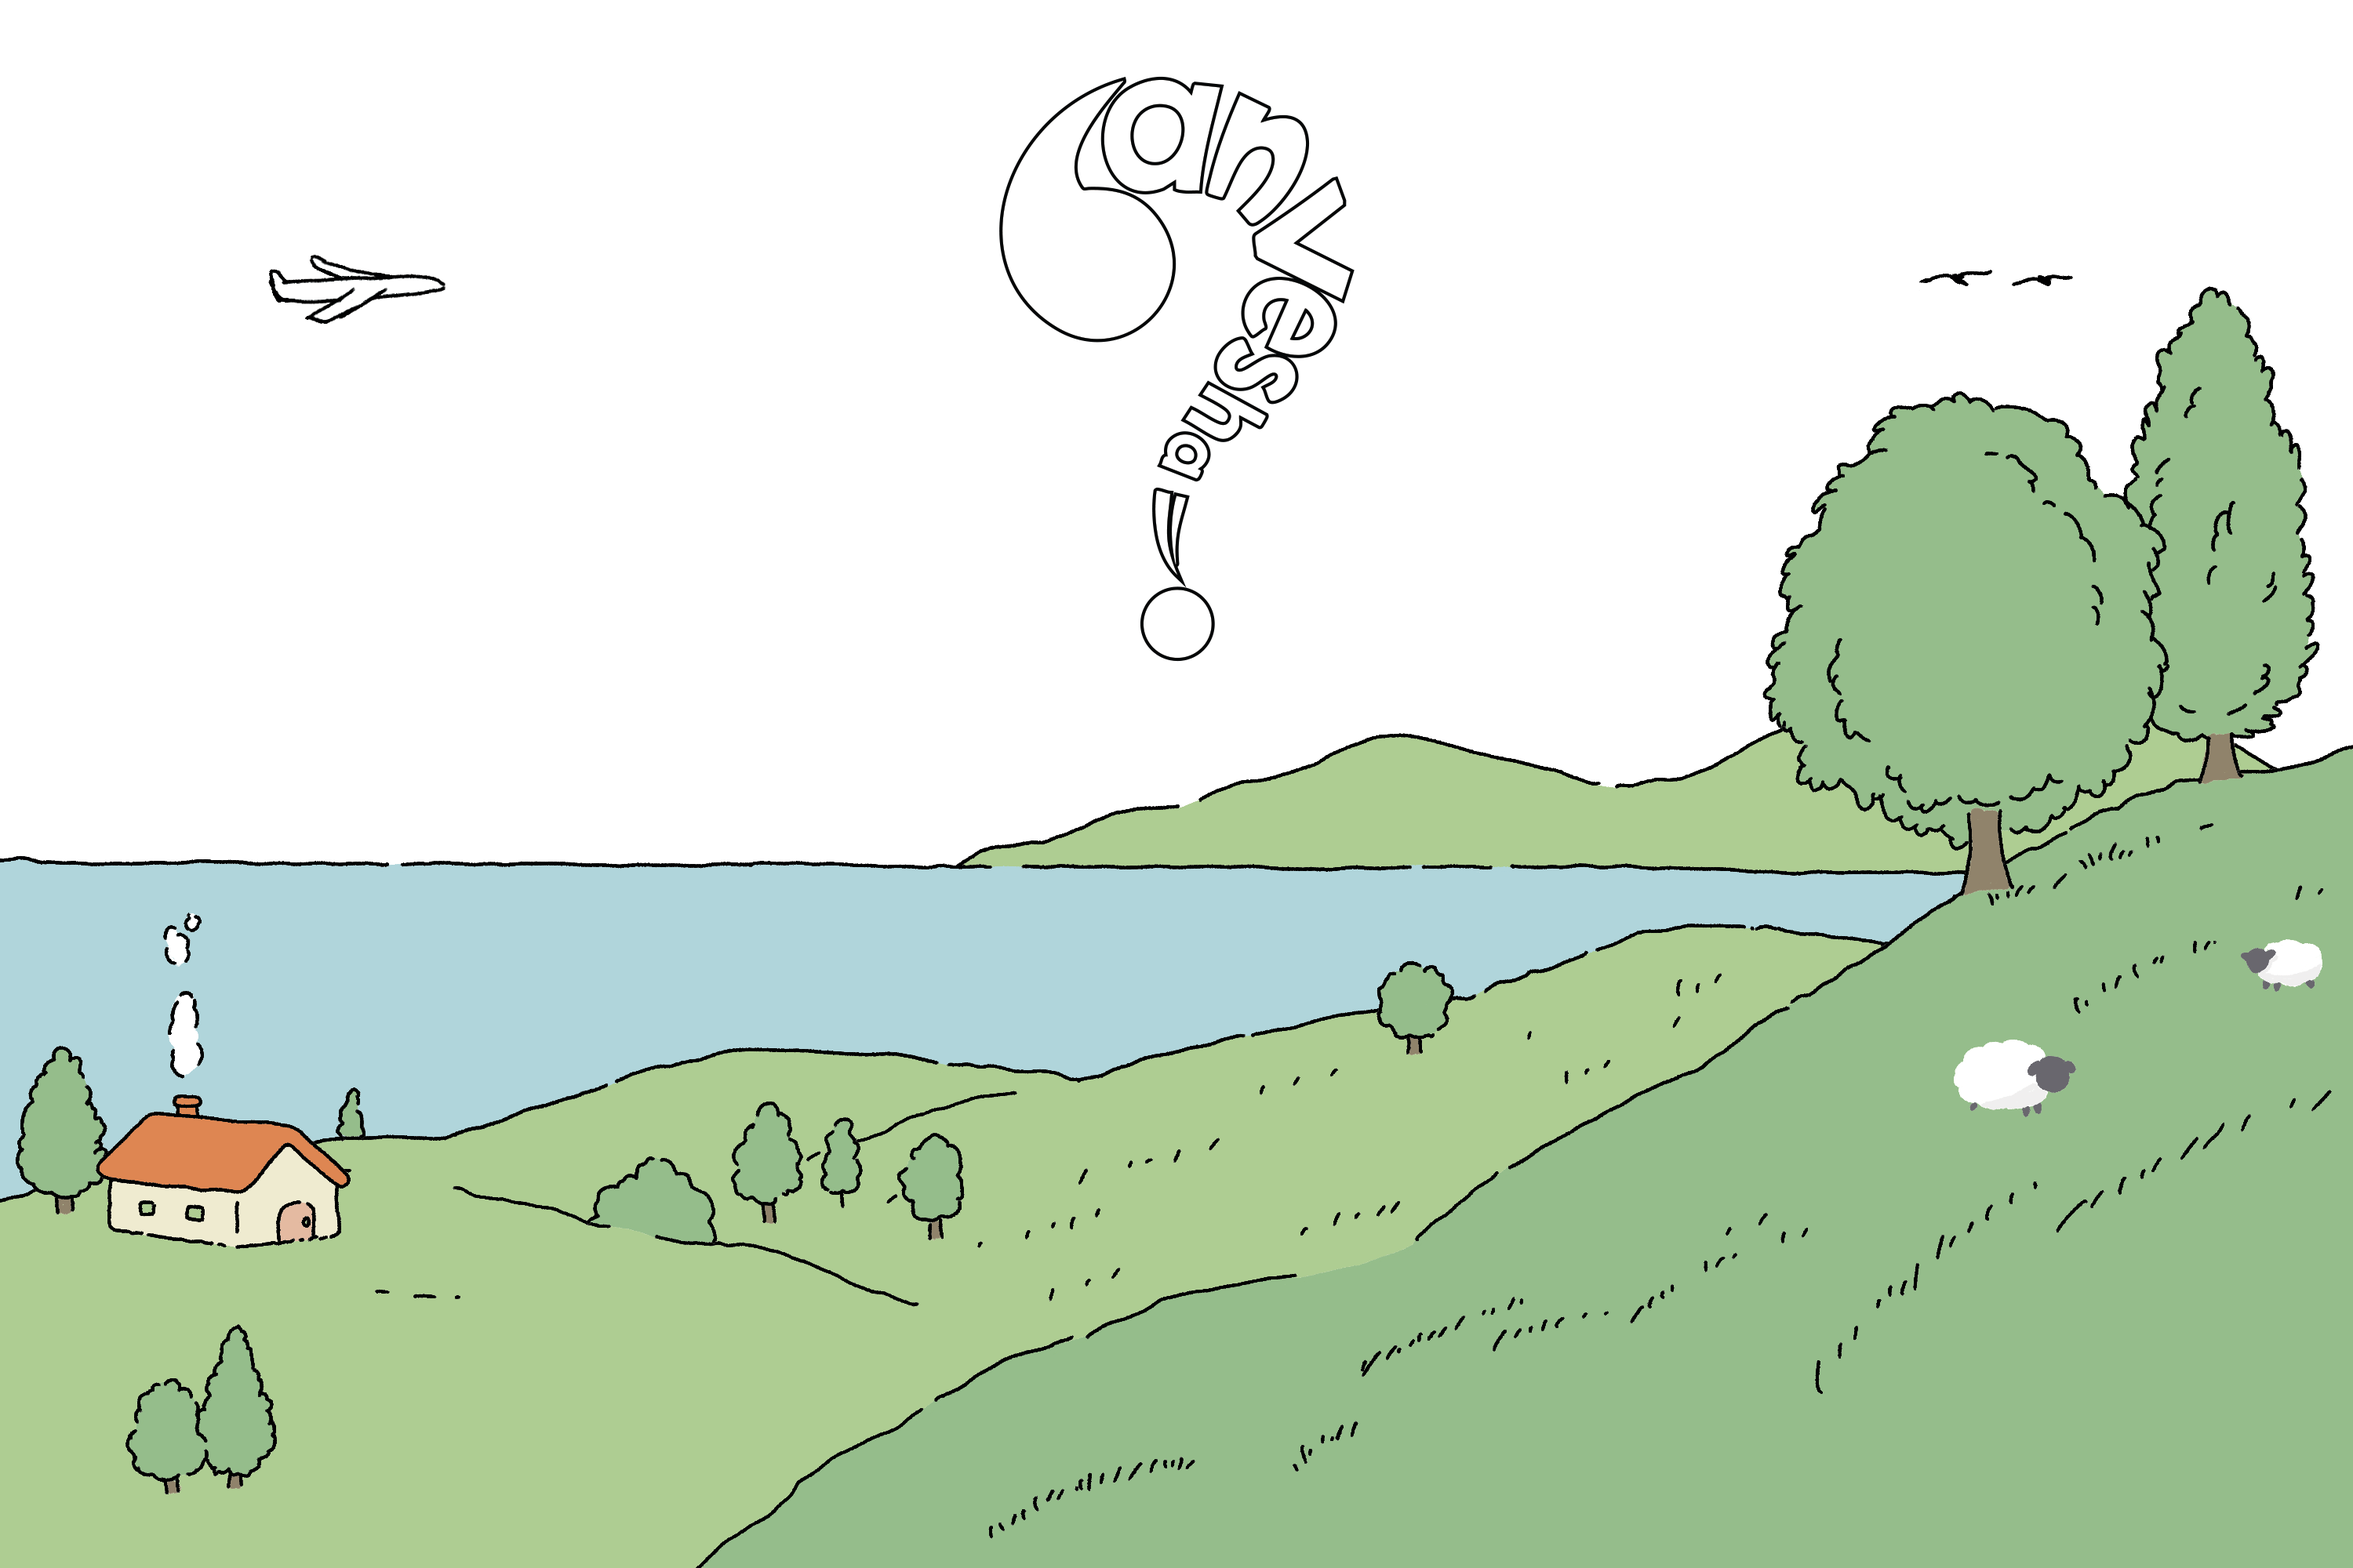
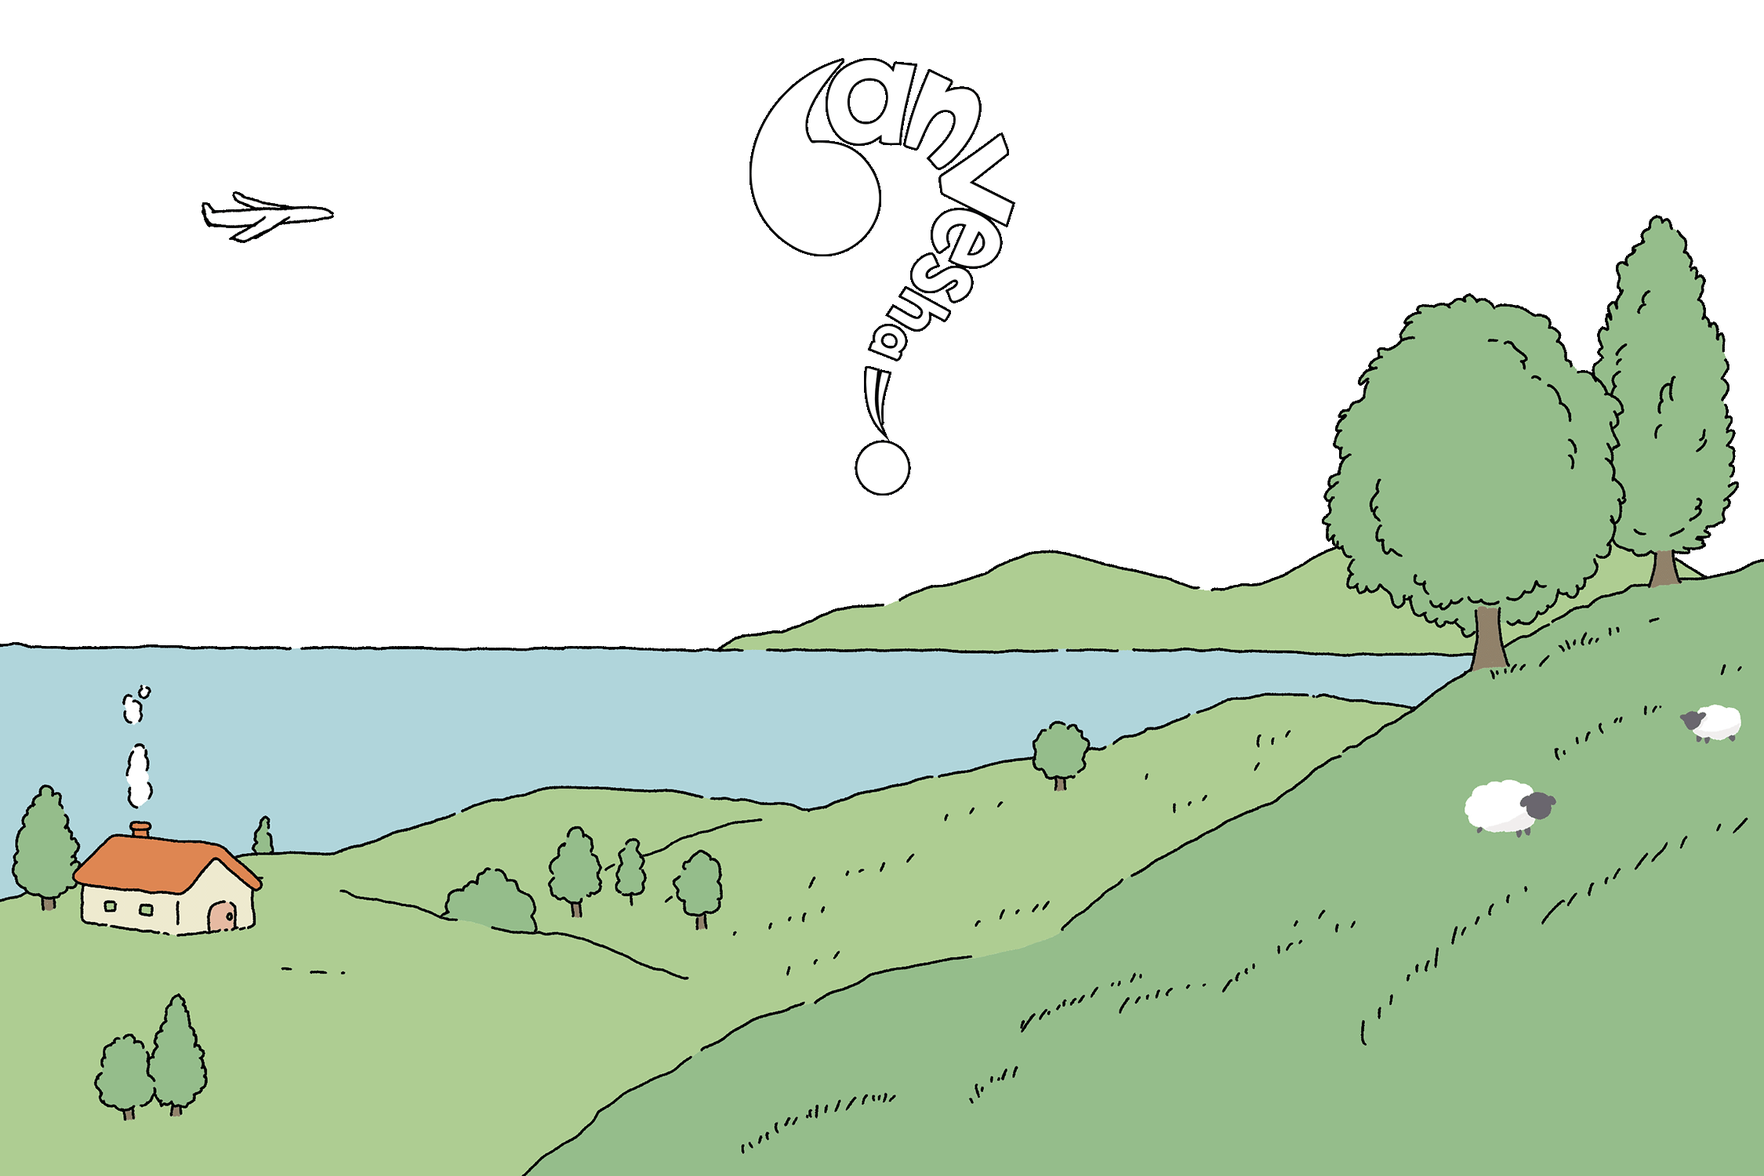
compressed files update

diff --git a/template.html b/template.html
@@ -27,7 +27,7 @@
           Cochin,
           Georgia,
           Times,
-          &quot;Times New Roman&quot;,
+          'Times New Roman',
           serif,
           sans-serif;
         letter-spacing: -0.03rem;
@@ -52,10 +52,11 @@
               "
             >
               <tbody>
+                <!-- Header Image -->
                 <tr>
                   <td style="padding-bottom: 20px; text-align: center">
                     <img
-                      src="https://raw.githubusercontent.com/PragunNepal/Srijana/refs/heads/main/assets/anvesha_banner_3.png"
+                      src="https://raw.githubusercontent.com/PragunNepal/Srijana/refs/heads/main/assets/anvesha_header.png"
                       alt="Anvesha header"
                       style="
                         display: block;
@@ -66,6 +67,8 @@
                     />
                   </td>
                 </tr>
+
+                <!-- Greetings -->
                 <tr>
                   <td style="padding: 20px 20px 10px; text-align: center">
                     <h2
@@ -80,6 +83,8 @@
                     </h2>
                   </td>
                 </tr>
+
+                <!-- Title -->
                 <tr>
                   <td style="padding: 10px; text-align: center">
                     <h1 style="margin: 0 50px; font-size: 2rem; color: #5e7b9a">
@@ -87,6 +92,8 @@
                     </h1>
                   </td>
                 </tr>
+
+                <!-- Content -->
                 <tr>
                   <td
                     style="
@@ -100,131 +107,131 @@
                     ${Content}
                   </td>
                 </tr>
+
+                <!-- Footer Image Row -->
                 <tr>
-                  <td
-                    style="
-                      text-align: center;
-                      position: relative;
-                      line-height: 0;
-                    "
-                  >
+                  <td style="line-height: 0; padding: 0; margin: 0">
                     <img
                       src="https://raw.githubusercontent.com/PragunNepal/Srijana/refs/heads/main/assets/anvesha_footer.png"
                       alt="Anvesha footer"
-                      width="600"
                       style="
                         display: block;
                         width: 100%;
-                        max-width: 100%;
                         height: auto;
                         border: 0;
+                        margin: 0;
+                        padding: 0;
                       "
                     />
+                  </td>
+                </tr>
+
+                <!-- Pill Row (Protected from Dark Mode) -->
+                <tr>
+                  <td
+                    align="center"
+                    style="
+                      padding: 20px 0;
+                      text-align: center;
+                      background-color: #95bd8b;
+                      background-image: linear-gradient(#95bd8b, #95bd8b);
+                      color-scheme: light only;
+                    "
+                  >
+                    <!-- Floating Pill Container -->
                     <div
                       style="
-                        position: absolute;
-                        bottom: 20px;
-                        left: 0;
-                        width: 100%;
-                        text-align: center;
-                        z-index: 10;
-                        line-height: normal;
+                        display: inline-block;
+                        background-color: #ffffff;
+                        background-image: linear-gradient(#ffffff, #ffffff);
+                        padding: 10px 10px;
+                        border-radius: 10px;
                       "
                     >
-                      <!-- Rounded Container Card -->
-                      <div
+                      <a
+                        href="https://www.instagram.com/anveshaiiser"
+                        target="_blank"
                         style="
+                          text-decoration: none;
+                          margin: 0 6px;
                           display: inline-block;
-                          background-color: rgba(255, 255, 255, 0.85);
-                          padding: 10px 10px;
-                          border-radius: 10px;
                         "
                       >
-                        <a
-                          href="https://www.instagram.com/anveshaiiser"
-                          style="
-                            text-decoration: none;
-                            margin: 0 6px;
-                            display: inline-block;
-                          "
-                          target="_blank"
-                        >
-                          <img
-                            src="https://raw.githubusercontent.com/PragunNepal/Srijana/refs/heads/main/icons/instagram.png"
-                            alt="Instagram"
-                            width="24"
-                            height="24"
-                            style="vertical-align: middle; border: 0"
-                          />
-                        </a>
-                        <a
-                          href="mailto:stc@iisertvm.ac.in"
-                          style="
-                            text-decoration: none;
-                            margin: 0 6px;
-                            display: inline-block;
-                          "
-                        >
-                          <img
-                            src="https://raw.githubusercontent.com/PragunNepal/Srijana/refs/heads/main/icons/gmail.png"
-                            alt="Gmail"
-                            width="24"
-                            height="24"
-                            style="vertical-align: middle; border: 0"
-                          />
-                        </a>
-                        <a
-                          href="https://www.facebook.com/anvesha.iisertvm"
-                          style="
-                            text-decoration: none;
-                            margin: 0 6px;
-                            display: inline-block;
-                          "
-                          target="_blank"
-                        >
-                          <img
-                            src="https://raw.githubusercontent.com/PragunNepal/Srijana/refs/heads/main/icons/facebook.png"
-                            alt="Facebook"
-                            width="24"
-                            height="24"
-                            style="vertical-align: middle; border: 0"
-                          />
-                        </a>
-                        <a
-                          href="https://x.com/Anvesha_IISER"
-                          style="
-                            text-decoration: none;
-                            margin: 0 6px;
-                            display: inline-block;
-                          "
-                          target="_blank"
-                        >
-                          <img
-                            src="https://raw.githubusercontent.com/PragunNepal/Srijana/refs/heads/main/icons/twitter.png"
-                            alt="Twitter"
-                            width="24"
-                            height="24"
-                            style="vertical-align: middle; border: 0"
-                          />
-                        </a>
-                        <a
-                          href="https://youtube.com/@stciisertvm"
-                          style="
-                            text-decoration: none;
-                            margin: 0 6px;
-                            display: inline-block;
-                          "
-                          target="_blank"
-                        >
-                          <img
-                            src="https://raw.githubusercontent.com/PragunNepal/Srijana/refs/heads/main/icons/youtube.png"
-                            alt="YouTube"
-                            width="24"
-                            height="24"
-                            style="vertical-align: middle; border: 0"
-                          />
-                        </a>
-                      </div>
+                        <img
+                          src="https://raw.githubusercontent.com/PragunNepal/Srijana/refs/heads/main/icons/instagram.png"
+                          alt="Instagram"
+                          width="24"
+                          height="24"
+                          style="vertical-align: middle; border: 0"
+                        />
+                      </a>
+                      <a
+                        href="mailto:stc@iisertvm.ac.in"
+                        style="
+                          text-decoration: none;
+                          margin: 0 6px;
+                          display: inline-block;
+                        "
+                      >
+                        <img
+                          src="https://raw.githubusercontent.com/PragunNepal/Srijana/refs/heads/main/icons/gmail.png"
+                          alt="Gmail"
+                          width="24"
+                          height="24"
+                          style="vertical-align: middle; border: 0"
+                        />
+                      </a>
+                      <a
+                        href="https://www.facebook.com/anvesha.iisertvm"
+                        target="_blank"
+                        style="
+                          text-decoration: none;
+                          margin: 0 6px;
+                          display: inline-block;
+                        "
+                      >
+                        <img
+                          src="https://raw.githubusercontent.com/PragunNepal/Srijana/refs/heads/main/icons/facebook.png"
+                          alt="Facebook"
+                          width="24"
+                          height="24"
+                          style="vertical-align: middle; border: 0"
+                        />
+                      </a>
+                      <a
+                        href="https://x.com/Anvesha_IISER"
+                        target="_blank"
+                        style="
+                          text-decoration: none;
+                          margin: 0 6px;
+                          display: inline-block;
+                        "
+                      >
+                        <img
+                          src="https://raw.githubusercontent.com/PragunNepal/Srijana/refs/heads/main/icons/twitter.png"
+                          alt="Twitter"
+                          width="24"
+                          height="24"
+                          style="vertical-align: middle; border: 0"
+                        />
+                      </a>
+                      <a
+                        href="https://youtube.com/@stciisertvm"
+                        target="_blank"
+                        style="
+                          text-decoration: none;
+                          margin: 0 6px;
+                          display: inline-block;
+                        "
+                      >
+                        <img
+                          src="https://raw.githubusercontent.com/PragunNepal/Srijana/refs/heads/main/icons/youtube.png"
+                          alt="YouTube"
+                          width="24"
+                          height="24"
+                          style="vertical-align: middle; border: 0"
+                        />
+                      </a>
                     </div>
                   </td>
                 </tr>
